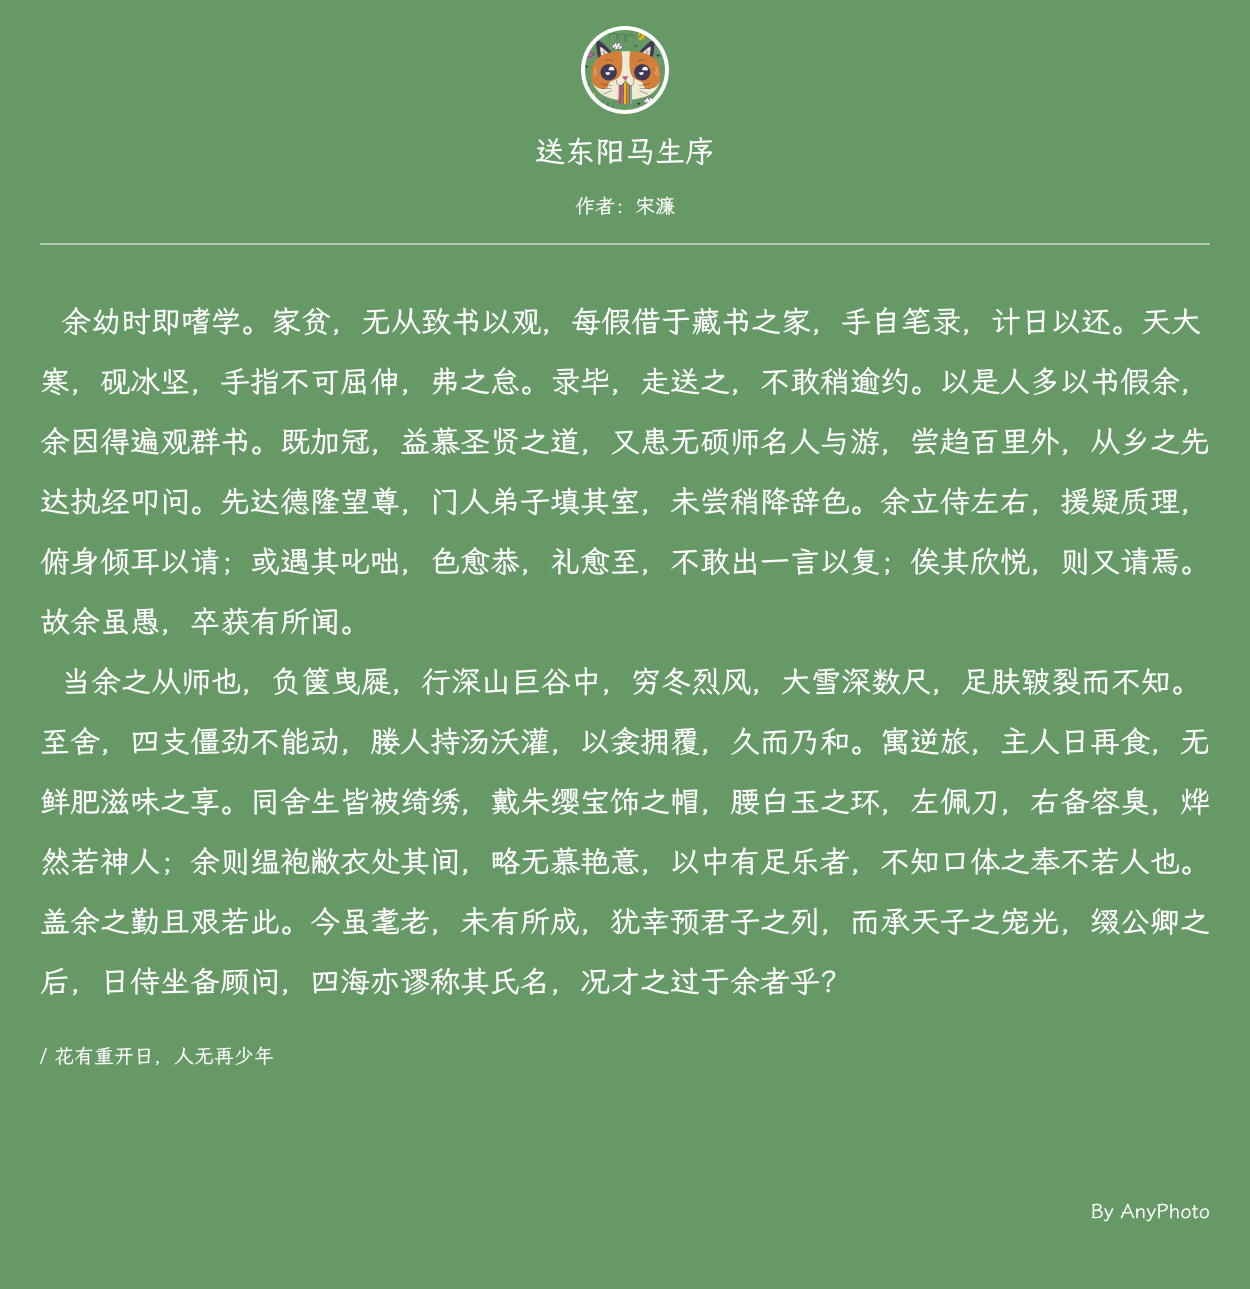
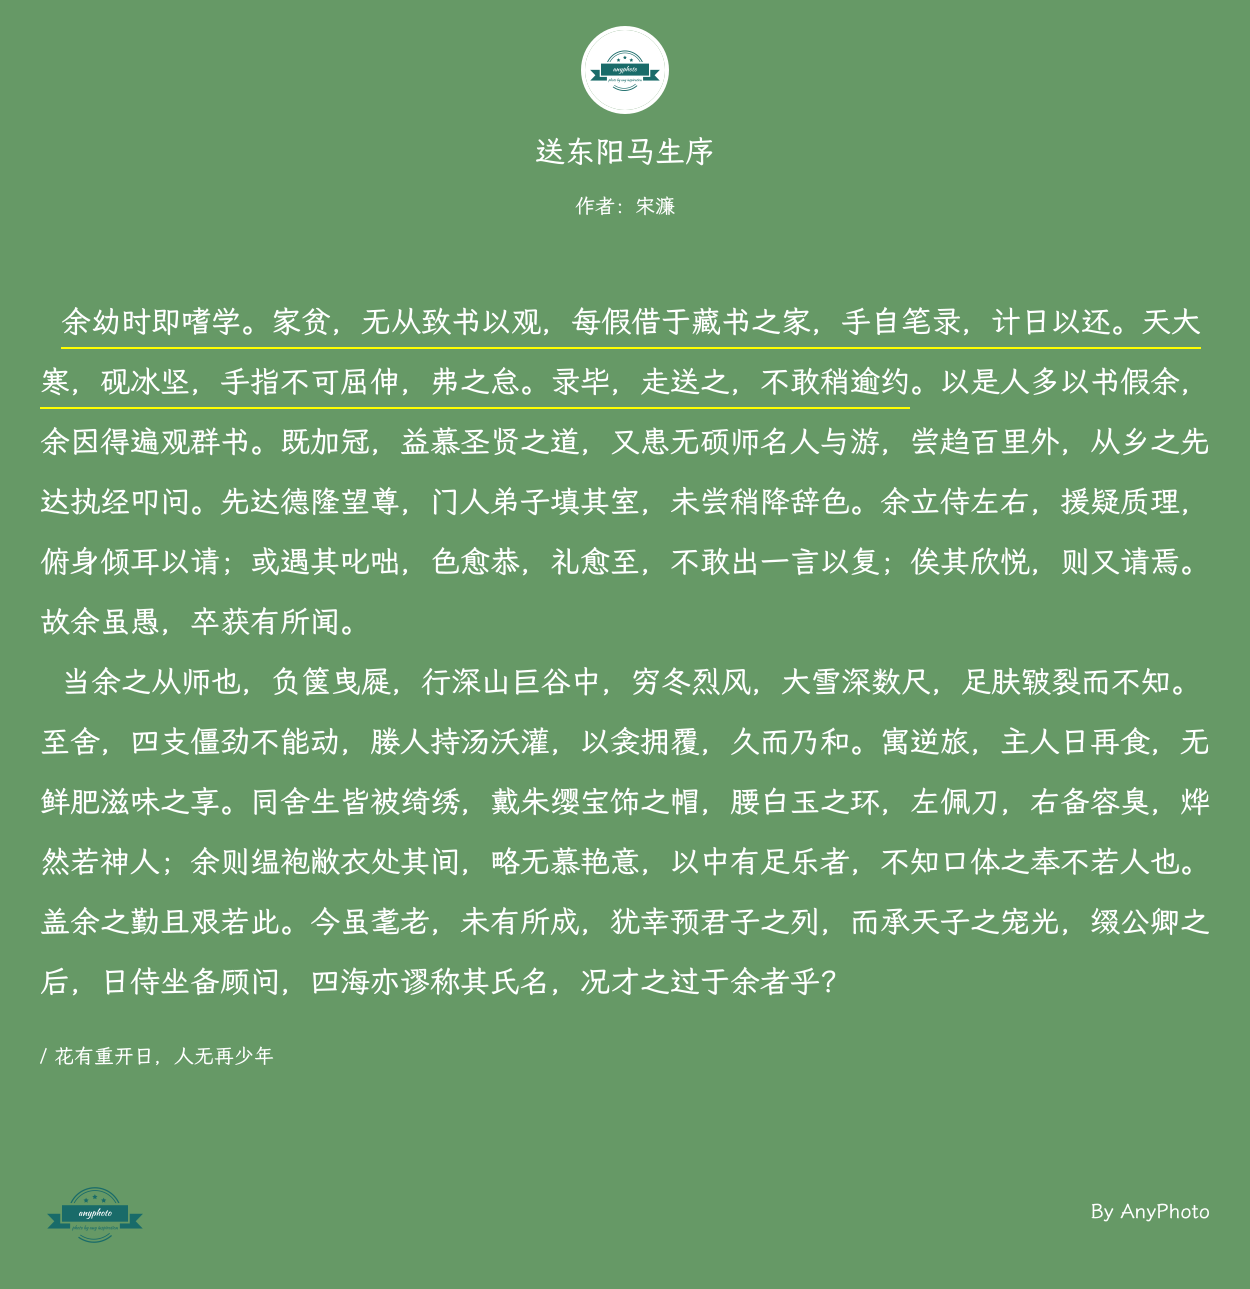
feat(theme): update poem theme

Changed region(s): [[0.468, 0.0, 0.5304, 0.0931], [0.0312, 0.931, 0.1248, 0.962]]

diff --git a/anyphoto.config.js b/anyphoto.config.js
@@ -29,7 +29,7 @@ const colorSetting = {
 const anyPhotoConfig = {
   defaultSeparator: 'empty',
   defaultContent:
-    '  余幼时即嗜学。家贫，无从致书以观，每假借于藏书之家，手自笔录，计日以还。天大寒，砚冰坚，手指不可屈伸，弗之怠。录毕，走送之，不敢稍逾约。以是人多以书假余，余因得遍观群书。既加冠，益慕圣贤之道，又患无硕师名人与游，尝趋百里外，从乡之先达执经叩问。先达德隆望尊，门人弟子填其室，未尝稍降辞色。余立侍左右，援疑质理，俯身倾耳以请；或遇其叱咄，色愈恭，礼愈至，不敢出一言以复；俟其欣悦，则又请焉。故余虽愚，卒获有所闻。                                                                                  当余之从师也，负箧曳屣，行深山巨谷中，穷冬烈风，大雪深数尺，足肤皲裂而不知。至舍，四支僵劲不能动，媵人持汤沃灌，以衾拥覆，久而乃和。寓逆旅，主人日再食，无鲜肥滋味之享。同舍生皆被绮绣，戴朱缨宝饰之帽，腰白玉之环，左佩刀，右备容臭，烨然若神人；余则缊袍敝衣处其间，略无慕艳意，以中有足乐者，不知口体之奉不若人也。盖余之勤且艰若此。今虽耄老，未有所成，犹幸预君子之列，而承天子之宠光，缀公卿之后，日侍坐备顾问，四海亦谬称其氏名，况才之过于余者乎？',
+    '  {余幼时即嗜学。家贫，无从致书以观，每假借于藏书之家，手自笔录，计日以还。天大寒，砚冰坚，手指不可屈伸，弗之怠。录毕，走送之，不敢稍逾约}。以是人多以书假余，余因得遍观群书。既加冠，益慕圣贤之道，又患无硕师名人与游，尝趋百里外，从乡之先达执经叩问。先达德隆望尊，门人弟子填其室，未尝稍降辞色。余立侍左右，援疑质理，俯身倾耳以请；或遇其叱咄，色愈恭，礼愈至，不敢出一言以复；俟其欣悦，则又请焉。故余虽愚，卒获有所闻。                                                                                  当余之从师也，负箧曳屣，行深山巨谷中，穷冬烈风，大雪深数尺，足肤皲裂而不知。至舍，四支僵劲不能动，媵人持汤沃灌，以衾拥覆，久而乃和。寓逆旅，主人日再食，无鲜肥滋味之享。同舍生皆被绮绣，戴朱缨宝饰之帽，腰白玉之环，左佩刀，右备容臭，烨然若神人；余则缊袍敝衣处其间，略无慕艳意，以中有足乐者，不知口体之奉不若人也。盖余之勤且艰若此。今虽耄老，未有所成，犹幸预君子之列，而承天子之宠光，缀公卿之后，日侍坐备顾问，四海亦谬称其氏名，况才之过于余者乎？',
   defaultOutputDir: 'anyphoto',
   defaultOutputName: '送东阳马生序',
   defaultOutputNameHandle(defaultOutputName) {},
@@ -75,11 +75,11 @@ const anyPhotoConfig = {
       headerDescriptionPrefix: '作者：宋濂',
       // headerDescriptionPrefixIcon: 'https://anyphoto.newarray.vip/logos/logo1/logo.png',
       headerDescriptionPrefixIconGap: 6,
-      headerDescriptionPrefixIconOffsetY: 4,
-      divider: {
-        size: 'contentWidth',
-        color: '#fff'
-      }
+      headerDescriptionPrefixIconOffsetY: 4
+      // divider: {
+      //   size: 'contentWidth',
+      //   color: '#fff'
+      // }
     },
     footer: {
       paddingY: 60,
@@ -102,12 +102,12 @@ const anyPhotoConfig = {
       fromMarginTop: 50
     },
     underline: {
-      shape: 'wave',
-      color: '#fff',
+      shape: 'line',
+      color: 'yellow',
       lineWidth: 2,
       amplitude: 2,
       wavelength: 180,
-      offsetY: 10
+      offsetY: 14
     }
   }
 }
